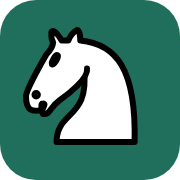
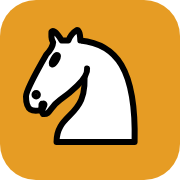
Diseño estilo ChessMonitor: barra lateral, tema oscuro con acento ámbar
Barra lateral con iconos en escritorio y barra de pestañas abajo en el móvil,
tema oscuro por defecto con botón para el claro, tipografía Inter, tarjetas
y tablero con colores de panel de análisis, icono ámbar.

Claude-Session: https://claude.ai/code/session_01SV8x8w75wNBGyiL4PLRDYC

diff --git a/css/app.css b/css/app.css
@@ -1,60 +1,85 @@
-/* Sala de Entrenamiento: tablero de club, verde de tapete, números en mono. */
+/* Sala de Entrenamiento: estilo panel de análisis (oscuro, acento ámbar), al modo de ChessMonitor. */
 :root {
-  --bg: #f3f5f4;
-  --panel: #ffffff;
-  --fg: #17201c;
-  --muted: #5d6b65;
-  --line: #dde3e0;
-  --accent: #1f6f5c;
-  --accent-fg: #ffffff;
-  --good: #1b7a45;
-  --bad: #b3362f;
-  --warn: #a36a00;
-  --s1: #1f7a63;
-  --s2: #4b5bd6;
-  --s3: #c27c0e;
-  --s4: #c2416b;
-  --muted-mark: #8b9a93;
-  --grid: #e6ebe8;
-  --wh: #f2f2ee;
-  --bl: #2b302d;
-  --font-display: 'Newsreader', Georgia, 'Times New Roman', serif;
-  --font-body: 'IBM Plex Sans', system-ui, -apple-system, 'Segoe UI', sans-serif;
-  --font-mono: 'IBM Plex Mono', ui-monospace, 'SFMono-Regular', Menlo, monospace;
-  --radius: 10px;
-  color-scheme: light;
+  --bg: #0f1115;
+  --side: #13161b;
+  --panel: #181b21;
+  --panel-2: #1f232a;
+  --fg: #e9eaee;
+  --muted: #9198a4;
+  --line: #262b33;
+  --accent: #e69c24;
+  --accent-fg: #1a1204;
+  --accent-text: #f0ae45;
+  --good: #3fb68b;
+  --bad: #ec5d57;
+  --warn: #e3a73a;
+  --s1: #e69c24;
+  --s2: #5b8def;
+  --s3: #3fb68b;
+  --s4: #e0607e;
+  --muted-mark: #6b7380;
+  --grid: #22262d;
+  --wh: #eceff3;
+  --bl: #0a0b0d;
+  --sq-light: #dee3e6;
+  --sq-dark: #8ca2ad;
+  --shadow: 0 1px 2px rgb(0 0 0 / .4), 0 8px 24px rgb(0 0 0 / .18);
+  --font-display: 'Inter', system-ui, -apple-system, 'Segoe UI', sans-serif;
+  --font-body: 'Inter', system-ui, -apple-system, 'Segoe UI', sans-serif;
+  --font-mono: 'JetBrains Mono', ui-monospace, 'SFMono-Regular', Menlo, monospace;
+  --radius: 12px;
+  --side-w: 236px;
+  color-scheme: dark;
 }
-@media (prefers-color-scheme: dark) {
-  :root {
-    --bg: #101412; --panel: #181e1b; --fg: #e6ece9; --muted: #98a6a0; --line: #2a332f; --accent: #3fae8e; --accent-fg: #0b1210;
-    --good: #4cc488; --bad: #ee6b62; --warn: #e3a73a; --s1: #3fbf98; --s2: #8592ff; --s3: #e9a73d; --s4: #f07399;
-    --muted-mark: #6d7c75; --grid: #232b28; --wh: #e8e8e2; --bl: #050706; color-scheme: dark;
-  }
+:root[data-theme="light"] {
+  --bg: #f4f5f7; --side: #ffffff; --panel: #ffffff; --panel-2: #f1f3f6; --fg: #14161b; --muted: #5d6470; --line: #e3e6eb;
+  --accent: #e69c24; --accent-fg: #1a1204; --accent-text: #a8650a;
+  --good: #1d8a5e; --bad: #c8382f; --warn: #a36a00; --s1: #d48a12; --s2: #3b6fd8; --s3: #1d8a5e; --s4: #c43c63;
+  --muted-mark: #9aa1ac; --grid: #eceef2; --wh: #f6f6f3; --bl: #262a30;
+  --shadow: 0 1px 2px rgb(16 24 40 / .06), 0 4px 16px rgb(16 24 40 / .05);
+  color-scheme: light;
 }
 
 * { box-sizing: border-box; }
 html { -webkit-text-size-adjust: 100%; }
-body { margin: 0; background: var(--bg); color: var(--fg); font: 15px/1.5 var(--font-body); }
+body { margin: 0; background: var(--bg); color: var(--fg); font: 14.5px/1.5 var(--font-body); font-feature-settings: 'cv11', 'ss01'; -webkit-font-smoothing: antialiased; }
 [hidden] { display: none !important; }
 h1, h2, h3 { text-wrap: balance; margin: 0; }
-h1 { font: 500 2rem/1.15 var(--font-display); letter-spacing: -0.01em; }
-h3 { font-size: 1rem; font-weight: 600; }
+h1 { font: 800 1.9rem/1.15 var(--font-display); letter-spacing: -0.025em; }
+h3 { font-size: .95rem; font-weight: 700; letter-spacing: -0.005em; }
 button, input, select, textarea { font: inherit; color: inherit; }
 :focus-visible { outline: 2px solid var(--accent); outline-offset: 2px; }
+a { color: var(--accent-text); }
 
-.wrap { max-width: 1240px; margin: 0 auto; padding: 24px max(16px, env(safe-area-inset-right)) 48px max(16px, env(safe-area-inset-left)); }
-.top { position: sticky; top: 0; z-index: 10; background: var(--panel); border-bottom: 1px solid var(--line); }
-.top-inner { max-width: 1240px; margin: 0 auto; padding: 0 16px; display: flex; align-items: center; gap: 24px; flex-wrap: wrap; }
-.brand { font: 500 1.2rem var(--font-display); color: var(--fg); text-decoration: none; padding: 12px 0; display: flex; gap: 8px; align-items: center; }
-.brand-mark { color: var(--accent); font-size: 1.4rem; }
-.tabs { display: flex; gap: 4px; overflow-x: auto; scrollbar-width: none; }
-.tabs a { padding: 14px 10px; color: var(--muted); text-decoration: none; white-space: nowrap; border-bottom: 2px solid transparent; font-weight: 500; }
-.tabs a:hover { color: var(--fg); }
-.tabs a[aria-current="page"] { color: var(--fg); border-bottom-color: var(--accent); }
-.foot { color: var(--muted); font-size: 12px; padding-top: 0; }
+/* Marco: barra lateral fija + contenido */
+.side { position: fixed; inset: 0 auto 0 0; width: var(--side-w); background: var(--side); border-right: 1px solid var(--line); display: flex; flex-direction: column; gap: 8px; padding: 18px 12px; z-index: 20; }
+.brand { font: 600 15px/1.2 var(--font-display); color: var(--fg); text-decoration: none; padding: 4px 8px 18px; display: flex; gap: 10px; align-items: center; letter-spacing: -0.01em; }
+.brand b { font-weight: 800; display: block; }
+.brand-mark { flex: none; display: grid; place-items: center; width: 34px; height: 34px; border-radius: 9px; background: var(--accent); color: var(--accent-fg); font-size: 22px; line-height: 1; }
+.tabs { display: grid; gap: 2px; align-content: start; flex: 1; }
+.nav-h { margin: 14px 10px 6px; font-size: 11px; font-weight: 600; letter-spacing: .08em; text-transform: uppercase; color: var(--muted-mark); }
+.nav-h:first-child { margin-top: 0; }
+.tabs a, .theme-btn { display: flex; align-items: center; gap: 12px; padding: 9px 10px; border-radius: 8px; color: var(--muted); text-decoration: none; font-weight: 500; white-space: nowrap; }
+.tabs svg, .theme-btn svg { width: 18px; height: 18px; flex: none; fill: none; stroke: currentColor; stroke-width: 1.8; stroke-linecap: round; stroke-linejoin: round; }
+.tabs a:hover, .theme-btn:hover { color: var(--fg); background: var(--panel-2); }
+.tabs a[aria-current="page"] { color: var(--fg); background: color-mix(in srgb, var(--accent) 14%, transparent); box-shadow: inset 3px 0 0 var(--accent); }
+.tabs a[aria-current="page"] svg { color: var(--accent); }
+.tabs .ns { display: none; }
+.theme-btn { background: none; border: 0; cursor: pointer; font-size: 13px; width: 100%; }
+.content { margin-left: var(--side-w); min-height: 100vh; display: flex; flex-direction: column; }
+.wrap { width: 100%; max-width: 1320px; margin: 0 auto; padding: 28px max(16px, env(safe-area-inset-right)) 40px max(16px, env(safe-area-inset-left)); flex: 1; }
+@media (min-width: 900px) { .wrap { padding-left: 32px; padding-right: 32px; } }
+.foot { color: var(--muted-mark); font-size: 12px; padding: 16px 32px 24px; max-width: 1320px; margin: 0 auto; width: 100%; border-top: 1px solid var(--line); }
+
+/* Tablero con colores de panel de análisis */
+.cm-chessboard.default .board .square.white { fill: var(--sq-light); }
+.cm-chessboard.default .board .square.black { fill: var(--sq-dark); }
+.cm-chessboard.default .coordinates .coordinate.white { fill: #5f7682; font-weight: 600; }
+.cm-chessboard.default .coordinates .coordinate.black { fill: #f4f6f7; font-weight: 600; }
+.board svg { border-radius: 6px; }
 
 .page { display: grid; gap: 20px; }
-.page-head { display: flex; justify-content: space-between; align-items: flex-end; gap: 16px; flex-wrap: wrap; }
+.page-head { display: flex; justify-content: space-between; align-items: flex-end; gap: 16px; flex-wrap: wrap; padding-bottom: 6px; }
 .page-head > div { min-width: 0; }
 .lead { color: var(--muted); margin: 6px 0 0; max-width: 70ch; }
 .row { display: flex; align-items: center; }
@@ -68,29 +93,31 @@ button, input, select, textarea { font: inherit; color: inherit; }
 .note { color: var(--muted); margin: 0; }
 .alert { background: color-mix(in srgb, var(--bad) 10%, var(--panel)); border: 1px solid color-mix(in srgb, var(--bad) 40%, var(--line)); padding: 12px 14px; border-radius: var(--radius); }
 
-.btn { background: var(--panel); border: 1px solid var(--line); border-radius: 8px; padding: 7px 12px; cursor: pointer; font-weight: 500; }
+.btn { background: var(--panel-2); border: 1px solid var(--line); border-radius: 8px; padding: 7px 14px; cursor: pointer; font-weight: 600; font-size: 13.5px; }
 .btn:hover { border-color: var(--muted-mark); }
 .btn.primary { background: var(--accent); color: var(--accent-fg); border-color: var(--accent); }
+.btn.primary:hover { filter: brightness(1.08); border-color: var(--accent); }
 .btn.small { padding: 3px 8px; font-size: 12px; }
 .btn.icon { min-width: 40px; }
 .btn:disabled { opacity: .5; cursor: progress; }
-.link { background: none; border: 0; padding: 0; color: var(--accent); cursor: pointer; text-align: left; }
-.seg { display: inline-flex; border: 1px solid var(--line); border-radius: 8px; overflow: hidden; }
-.seg button { background: var(--panel); border: 0; padding: 7px 14px; cursor: pointer; }
-.seg button + button { border-left: 1px solid var(--line); }
-.seg button[aria-pressed="true"] { background: var(--fg); color: var(--bg); }
+.link { background: none; border: 0; padding: 0; color: var(--accent-text); cursor: pointer; text-align: left; }
+.seg { display: inline-flex; gap: 2px; padding: 3px; background: var(--panel-2); border: 1px solid var(--line); border-radius: 10px; }
+.seg button { background: none; border: 0; border-radius: 7px; padding: 5px 14px; cursor: pointer; color: var(--muted); font-weight: 600; font-size: 13.5px; }
+.seg button:hover { color: var(--fg); }
+.seg button[aria-pressed="true"] { background: var(--accent); color: var(--accent-fg); }
 .field { display: grid; gap: 4px; font-size: 13px; color: var(--muted); }
-.field input, .field select, .field textarea, input.grow { background: var(--panel); border: 1px solid var(--line); border-radius: 8px; padding: 7px 10px; color: var(--fg); width: 100%; }
+.field input, .field select, .field textarea, input.grow { background: var(--panel-2); border: 1px solid var(--line); border-radius: 8px; padding: 7px 10px; color: var(--fg); width: 100%; }
 .field textarea { font-family: var(--font-mono); font-size: 12px; resize: vertical; }
 .switch { display: inline-flex; gap: 6px; align-items: center; font-size: 13px; color: var(--muted); }
 
-.card { background: var(--panel); border: 1px solid var(--line); border-radius: var(--radius); padding: 18px; display: grid; gap: 10px; align-content: start; min-width: 0; }
+.card { background: var(--panel); border: 1px solid var(--line); border-radius: var(--radius); box-shadow: var(--shadow); padding: 20px; display: grid; gap: 10px; align-content: start; min-width: 0; }
 .card.narrow { max-width: 640px; }
 .grid2 { display: grid; gap: 20px; grid-template-columns: repeat(auto-fit, minmax(min(100%, 24rem), 1fr)); }
 .tiles { display: grid; gap: 12px; grid-template-columns: repeat(auto-fit, minmax(min(100%, 10rem), 1fr)); }
-.tile { background: var(--panel); border: 1px solid var(--line); border-radius: var(--radius); padding: 14px; display: grid; gap: 2px; }
-.tile .label { font-size: 12px; color: var(--muted); letter-spacing: .03em; text-transform: uppercase; }
-.tile .big { font: 400 2rem/1.15 var(--font-display); font-variant-numeric: tabular-nums; }
+.tile { background: var(--panel); border: 1px solid var(--line); border-radius: var(--radius); box-shadow: var(--shadow); padding: 16px 18px; display: grid; gap: 4px; position: relative; overflow: hidden; }
+.tile::before { content: ''; position: absolute; inset: 0 auto 0 0; width: 3px; background: var(--accent); opacity: .85; }
+.tile .label { font-size: 11px; font-weight: 600; color: var(--muted); letter-spacing: .07em; text-transform: uppercase; }
+.tile .big { font: 800 1.9rem/1.15 var(--font-display); letter-spacing: -0.02em; font-variant-numeric: tabular-nums; }
 .tile .sub { font-size: 12px; color: var(--muted); }
 .up, .good { color: var(--good) !important; }
 .down, .bad { color: var(--bad) !important; }
@@ -104,7 +131,7 @@ button, input, select, textarea { font: inherit; color: inherit; }
 .chart .axis { stroke: var(--line); }
 .chart .ref { stroke: var(--muted-mark); stroke-dasharray: 3 3; }
 .chart .focus-dot { stroke: var(--panel); stroke-width: 1.5; }
-.tip { position: absolute; pointer-events: none; background: var(--panel); border: 1px solid var(--line); border-radius: 8px; box-shadow: 0 6px 20px rgb(0 0 0 / .12); padding: 6px 10px; font-size: 12px; white-space: nowrap; z-index: 2; }
+.tip { position: absolute; pointer-events: none; background: var(--panel-2); border: 1px solid var(--line); border-radius: 8px; box-shadow: 0 6px 20px rgb(0 0 0 / .12); padding: 6px 10px; font-size: 12px; white-space: nowrap; z-index: 2; }
 .tip-head { color: var(--muted); margin-bottom: 2px; }
 .tip .sw { display: inline-block; width: 8px; height: 8px; border-radius: 2px; margin-right: 6px; }
 
@@ -121,7 +148,7 @@ button, input, select, textarea { font: inherit; color: inherit; }
 .table { width: 100%; border-collapse: collapse; font-size: 13px; }
 .table th.n, .table td.n { text-align: right; }
 .table th, .table td { text-align: left; padding: 6px 8px; border-bottom: 1px solid var(--line); }
-.table th { position: sticky; top: 0; background: var(--panel); color: var(--muted); font-weight: 500; z-index: 1; }
+.table th { position: sticky; top: 0; background: var(--panel); color: var(--muted); font-weight: 600; font-size: 11.5px; text-transform: uppercase; letter-spacing: .05em; z-index: 1; }
 .table td.n { text-align: right; font-family: var(--font-mono); font-size: 12px; font-variant-numeric: tabular-nums; }
 .table tr.total td { font-weight: 600; }
 .table.clickable tbody tr { cursor: pointer; }
@@ -133,7 +160,7 @@ button, input, select, textarea { font: inherit; color: inherit; }
 
 /* Tablero */
 .study { display: grid; gap: 20px; grid-template-columns: minmax(0, 1fr) minmax(0, 26rem); align-items: start; }
-.board-col { display: grid; gap: 10px; position: sticky; top: 64px; }
+.board-col { display: grid; gap: 10px; position: sticky; top: 20px; }
 .board-wrap { display: flex; gap: 8px; }
 .board { flex: 1; min-width: 0; max-width: min(100%, 78vh); }
 .evalbar { width: 22px; flex: none; position: relative; background: var(--bl); border-radius: 4px; overflow: hidden; }
@@ -164,7 +191,7 @@ button, input, select, textarea { font: inherit; color: inherit; }
 .ex-filters > [hidden] { display: none !important; }
 .ex-label { font-size: 13px; color: var(--muted); }
 .chips { display: flex; flex-wrap: wrap; gap: 4px; }
-.chips button { background: var(--panel); border: 1px solid var(--line); border-radius: 6px; padding: 4px 9px; font-size: 12px; cursor: pointer; font-family: var(--font-mono); }
+.chips button { background: var(--panel-2); border: 1px solid var(--line); border-radius: 6px; padding: 4px 9px; font-size: 12px; cursor: pointer; font-family: var(--font-mono); }
 .chips button[aria-pressed="true"] { background: var(--accent); color: var(--accent-fg); border-color: var(--accent); }
 .ex-sub { margin: 4px 0 0; font-size: 13px; color: var(--muted); font-weight: 500; }
 .wdl.labeled { height: 18px; font-size: 11px; line-height: 18px; font-family: var(--font-mono); }
@@ -178,6 +205,21 @@ button, input, select, textarea { font: inherit; color: inherit; }
 @media (max-width: 900px) {
   .study { grid-template-columns: 1fr; }
   .board-col { position: static; }
+  /* Móvil: barra superior con la marca y barra de pestañas abajo, como una app. */
+  .side { position: sticky; inset: 0 0 auto 0; top: 0; width: auto; flex-direction: row; align-items: center; justify-content: space-between; padding: 8px 12px; border-right: 0; border-bottom: 1px solid var(--line); }
+  .brand { padding: 0; }
+  .brand-mark { width: 30px; height: 30px; font-size: 19px; }
+  .brand b { display: inline; }
+  .theme-btn { width: auto; padding: 8px; }
+  .theme-btn span { display: none; }
+  .tabs { position: fixed; left: 0; right: 0; bottom: 0; display: flex; gap: 0; background: var(--side); border-top: 1px solid var(--line); padding: 4px 4px max(4px, env(safe-area-inset-bottom)); }
+  .nav-h { display: none; }
+  .tabs a { flex: 1 1 0; min-width: 0; flex-direction: column; gap: 3px; padding: 6px 2px; font-size: 10.5px; border-radius: 8px; }
+  .tabs a[aria-current="page"] { box-shadow: none; }
+  .tabs .nl { display: none; }
+  .tabs .ns { display: block; overflow: hidden; text-overflow: ellipsis; max-width: 100%; }
+  .content { margin-left: 0; padding-bottom: 64px; }
+  .foot { padding: 14px 16px 20px; }
 }
 @media (max-width: 560px) {
   .hide-narrow { display: none; }

diff --git a/index.html b/index.html
@@ -4,11 +4,13 @@
   <meta charset="utf-8">
   <meta name="viewport" content="width=device-width, initial-scale=1">
   <title>Sala de Entrenamiento</title>
+  <meta name="theme-color" content="#0f1115">
+  <script>try { const t = localStorage.getItem('ajedrez-web:tema'); if (t) document.documentElement.dataset.theme = t } catch {}</script>
   <link rel="icon" type="image/svg+xml" href="favicon.svg">
   <link rel="apple-touch-icon" href="apple-touch-icon.png">
   <link rel="preconnect" href="https://fonts.googleapis.com">
   <link rel="preconnect" href="https://fonts.gstatic.com" crossorigin>
-  <link rel="stylesheet" href="https://fonts.googleapis.com/css2?family=Newsreader:opsz,wght@6..72,400;6..72,500&family=IBM+Plex+Sans:wght@400;500;600&family=IBM+Plex+Mono:wght@400;500&display=swap">
+  <link rel="stylesheet" href="https://fonts.googleapis.com/css2?family=Inter:wght@400;500;600;700;800&family=JetBrains+Mono:wght@400;500;600&display=swap">
   <link rel="stylesheet" href="vendor/cm-chessboard/assets/chessboard.css">
   <link rel="stylesheet" href="vendor/cm-chessboard/assets/extensions/markers/markers.css">
   <link rel="stylesheet" href="vendor/cm-chessboard/assets/extensions/arrows/arrows.css">
@@ -16,19 +18,21 @@
   <link rel="stylesheet" href="css/app.css">
 </head>
 <body>
-  <header class="top">
-    <div class="top-inner">
-      <a class="brand" href="#dashboard"><span class="brand-mark" aria-hidden="true">♞</span> Sala de Entrenamiento</a>
-      <nav class="tabs" aria-label="Secciones">
-        <a href="#dashboard" data-page="dashboard">Dashboard</a>
-        <a href="#analysis" data-page="analysis">Análisis</a>
-        <a href="#openings" data-page="openings">Aperturas</a>
-        <a href="#rivals" data-page="rivals">Rivales</a>
-        <a href="#database" data-page="database">Base de datos</a>
-        <a href="#settings" data-page="settings">Ajustes</a>
-      </nav>
-    </div>
-  </header>
+  <aside class="side">
+    <a class="brand" href="#dashboard"><span class="brand-mark" aria-hidden="true">♞</span><span>Sala de <b>Entrenamiento</b></span></a>
+    <nav class="tabs" aria-label="Secciones">
+      <p class="nav-h">Entrenamiento</p>
+      <a href="#dashboard" data-page="dashboard"><svg viewBox="0 0 24 24" aria-hidden="true"><path d="M3 13h7V3H3zM14 21h7V11h-7zM14 3v5h7V3zM3 21h7v-5H3z"/></svg><span class="nl">Dashboard</span><span class="ns" aria-hidden="true">Inicio</span></a>
+      <a href="#analysis" data-page="analysis"><svg viewBox="0 0 24 24" aria-hidden="true"><path d="M3 3v18h18"/><path d="m7 15 4-5 3 3 5-7"/></svg><span class="nl">Análisis</span><span class="ns" aria-hidden="true">Análisis</span></a>
+      <a href="#openings" data-page="openings"><svg viewBox="0 0 24 24" aria-hidden="true"><path d="M6 3v12"/><circle cx="18" cy="6" r="3"/><circle cx="6" cy="18" r="3"/><path d="M18 9a9 9 0 0 1-9 9"/></svg><span class="nl">Aperturas</span><span class="ns" aria-hidden="true">Aperturas</span></a>
+      <a href="#rivals" data-page="rivals"><svg viewBox="0 0 24 24" aria-hidden="true"><circle cx="9" cy="8" r="4"/><path d="M2 21c0-4 3-7 7-7s7 3 7 7"/><path d="M16 4a4 4 0 0 1 0 8M22 21c0-3-2-6-5-7"/></svg><span class="nl">Rivales</span><span class="ns" aria-hidden="true">Rivales</span></a>
+      <a href="#database" data-page="database"><svg viewBox="0 0 24 24" aria-hidden="true"><ellipse cx="12" cy="5" rx="8" ry="3"/><path d="M4 5v14c0 1.7 3.6 3 8 3s8-1.3 8-3V5"/><path d="M4 12c0 1.7 3.6 3 8 3s8-1.3 8-3"/></svg><span class="nl">Base de datos</span><span class="ns" aria-hidden="true">Base</span></a>
+      <p class="nav-h">Cuenta</p>
+      <a href="#settings" data-page="settings"><svg viewBox="0 0 24 24" aria-hidden="true"><circle cx="12" cy="12" r="3"/><path d="M19.4 15a1.7 1.7 0 0 0 .3 1.8l.1.1a2 2 0 1 1-2.8 2.8l-.1-.1a1.7 1.7 0 0 0-1.8-.3 1.7 1.7 0 0 0-1 1.5V21a2 2 0 1 1-4 0v-.1a1.7 1.7 0 0 0-1.1-1.5 1.7 1.7 0 0 0-1.8.3l-.1.1a2 2 0 1 1-2.8-2.8l.1-.1a1.7 1.7 0 0 0 .3-1.8 1.7 1.7 0 0 0-1.5-1H3a2 2 0 1 1 0-4h.1a1.7 1.7 0 0 0 1.5-1.1 1.7 1.7 0 0 0-.3-1.8l-.1-.1a2 2 0 1 1 2.8-2.8l.1.1a1.7 1.7 0 0 0 1.8.3H9a1.7 1.7 0 0 0 1-1.5V3a2 2 0 1 1 4 0v.1a1.7 1.7 0 0 0 1 1.5 1.7 1.7 0 0 0 1.8-.3l.1-.1a2 2 0 1 1 2.8 2.8l-.1.1a1.7 1.7 0 0 0-.3 1.8V9a1.7 1.7 0 0 0 1.5 1H21a2 2 0 1 1 0 4h-.1a1.7 1.7 0 0 0-1.5 1z"/></svg><span class="nl">Ajustes</span><span class="ns" aria-hidden="true">Ajustes</span></a>
+    </nav>
+    <button class="theme-btn" id="theme-btn" type="button" aria-label="Cambiar tema claro u oscuro"><svg viewBox="0 0 24 24" aria-hidden="true"><path d="M21 12.8A9 9 0 1 1 11.2 3a7 7 0 0 0 9.8 9.8z"/></svg><span>Tema claro / oscuro</span></button>
+  </aside>
+  <div class="content">
   <main class="wrap">
     <div id="page-dashboard" class="page"></div>
     <div id="page-analysis" class="page" hidden></div>
@@ -37,7 +41,8 @@
     <div id="page-database" class="page" hidden></div>
     <div id="page-settings" class="page" hidden></div>
   </main>
-  <footer class="foot wrap">Motor: Stockfish 18 (GPLv3) · Partidas y explorador: API de Lichess · Datos de entrenamiento: tu hoja de Google</footer>
+  <footer class="foot">Motor: Stockfish 18 (GPLv3) · Partidas y explorador: API de Lichess · Datos de entrenamiento: tu hoja de Google</footer>
+  </div>
   <script src="vendor/d3.min.js"></script>
   <script type="module" src="js/app.js"></script>
 </body>

diff --git a/js/app.js b/js/app.js
@@ -28,3 +28,14 @@ window.addEventListener('hashchange', () => go(location.hash.slice(1)))
 on('go', go)
 bindKeys(() => (current === 'analysis' ? analysis.getBoard() : current === 'openings' ? openings.getBoard() : null))
 go(location.hash.slice(1) || 'dashboard')
+
+// Tema oscuro (por defecto) o claro, recordado en este navegador.
+const THEME_KEY = 'ajedrez-web:tema'
+function setTheme(t) {
+  if (t === 'light') document.documentElement.dataset.theme = 'light'
+  else delete document.documentElement.dataset.theme
+  document.querySelector('meta[name="theme-color"]').content = t === 'light' ? '#ffffff' : '#0f1115'
+  try { localStorage.setItem(THEME_KEY, t) } catch { /* sin almacenamiento */ }
+}
+document.getElementById('theme-btn').addEventListener('click', () => setTheme(document.documentElement.dataset.theme === 'light' ? 'dark' : 'light'))
+if (document.documentElement.dataset.theme === 'light') setTheme('light')
